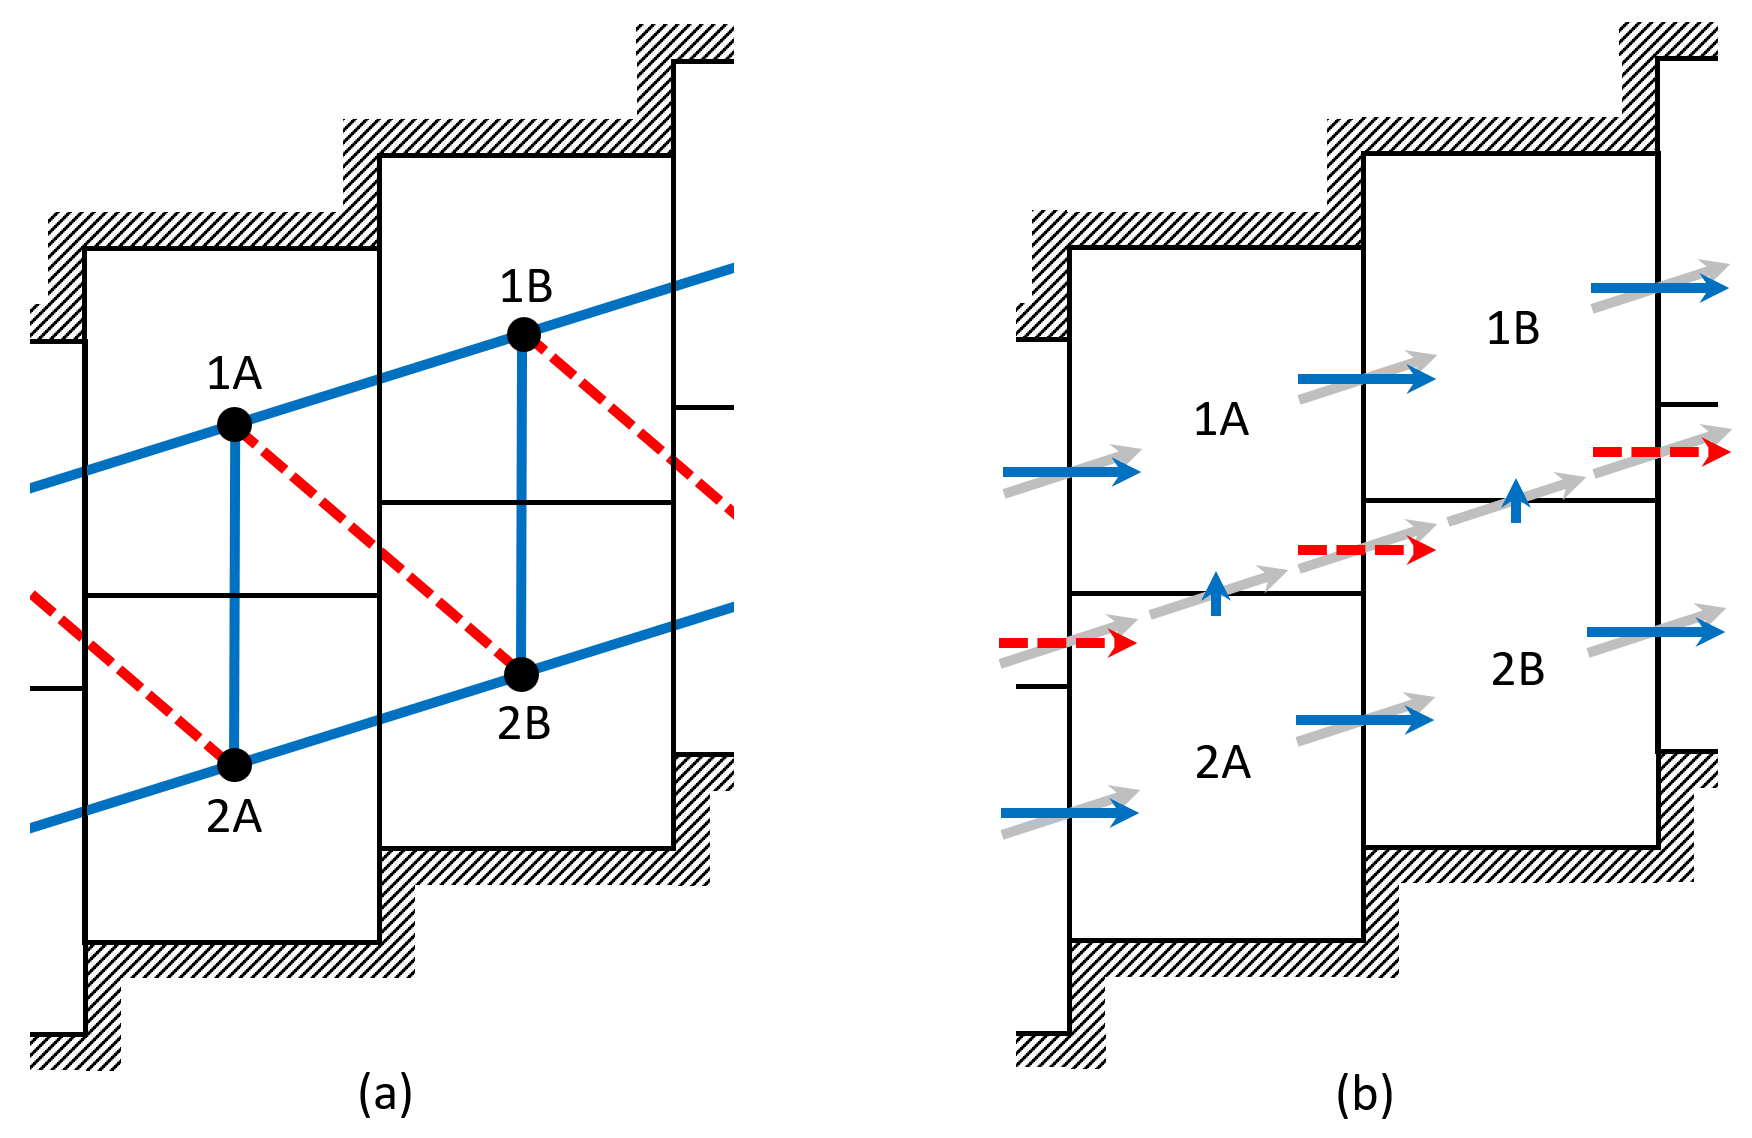
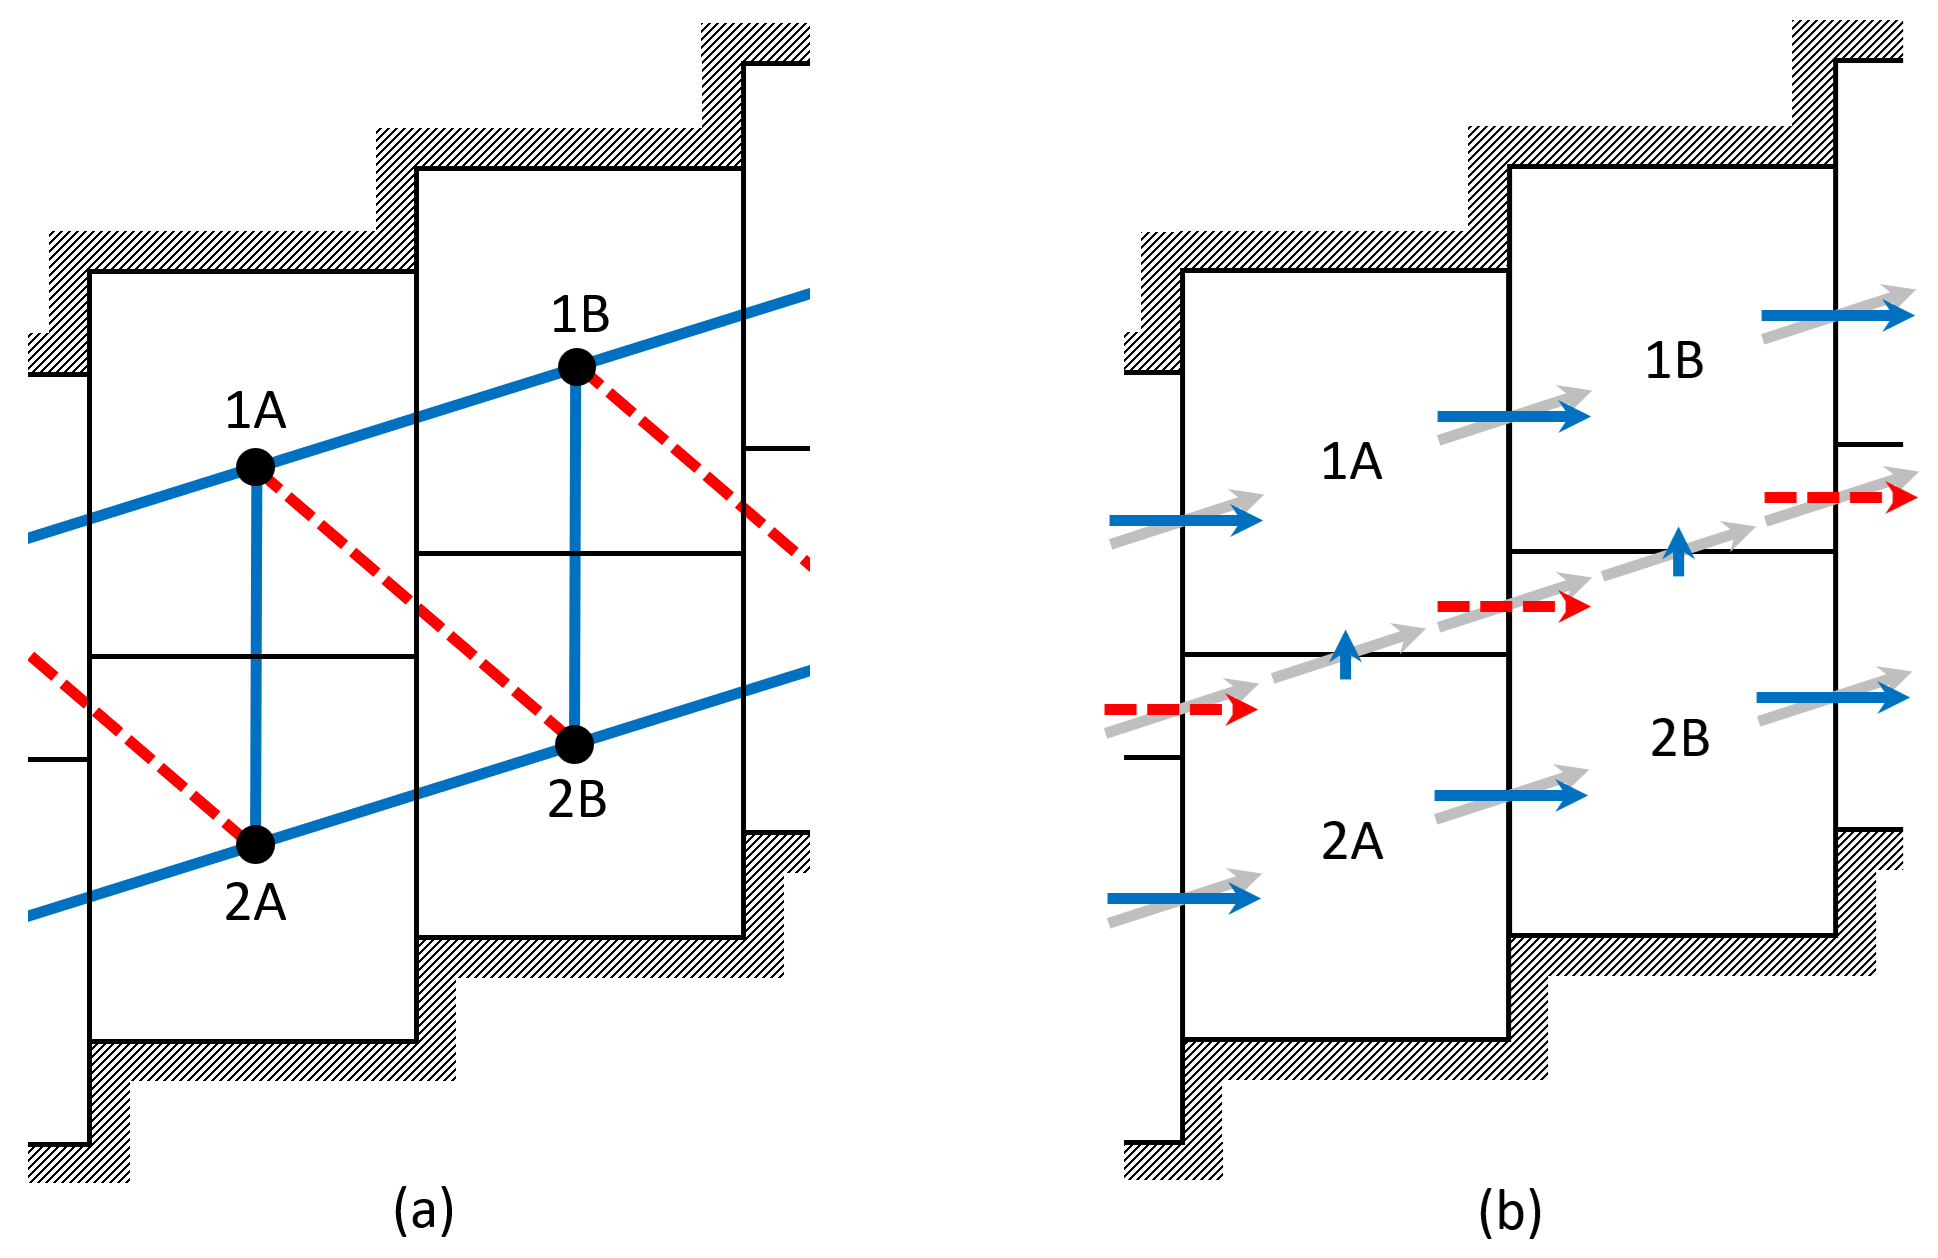
rerun to check, tweak fig 1
* run updated scripts to regenerate figs and spot-check model output (then clear notebook outputs)
* update gitignore to ignore .fff LaTex file and model folder
* update PNG for fig 1 to include super minor tweaks to fig1_drawing.docx made earlier (and delete an older fig 1)

diff --git a/latex/article_clean_FINAL.tex b/latex/article_clean_FINAL.tex
@@ -86,7 +86,7 @@ Versions of MODFLOW prior to MODFLOW-USG \citep{modflowusg} supported only struc
 
 \begin{figure}
 	\begin{center}
-	\includegraphics[scale=0.5]{../figures/fig1_paper.png}
+	\includegraphics[scale=1.0]{../figures/fig1_paper.png}
 	\caption{Schematics showing (a) cell connectivity and (b) cell-cell interface fluxes in a two-grid-layer model of a dipping hydrogeologic layer. Hatching denotes impermeable boundaries along the top and bottom of the hydrogeologic layer. In (a), black circles represent cell centers. Solid blue lines represent hydraulic connections between cells in a layered-connectivity grid. Dashed red lines represent additional connections that must be made to achieve full connectivity. In (b), solid gray arrows represent the uniform groundwater flux the model is attempting to simulate. Solid blue arrows represent components of the uniform groundwater flux normal to the horizontal and vertical cell-cell interfaces in the layered-connectivity grid. Dashed red arrows represent components of the uniform groundwater flux normal to the additional vertical cell-cell interfaces introduced to represent the full connectivity.}
 	\label{fig:schem-conn-area-flux}
 	\end{center}
